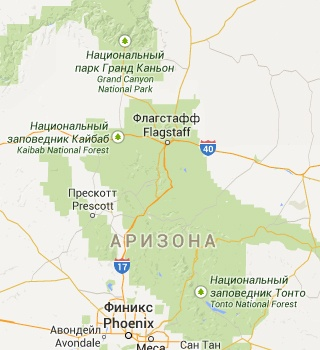
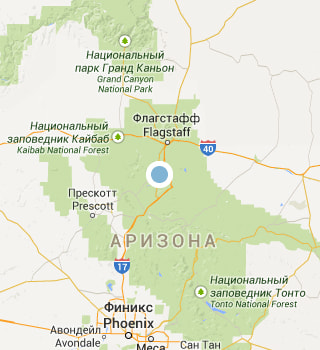
add styles for index.html

diff --git a/src/index.html b/src/index.html
@@ -119,8 +119,7 @@
           <li class="advantages__item advantages__item--extra">
             <div class="advantages__extra-wrapper">
               <h3 class="advantages__title advantages__title--extra">
-                Небольшая<br />
-                площадь
+                Небольшая площадь
               </h3>
               <span class="advantages__index-number">№3</span>
               <p class="advantages__text advantages__text--extra">
@@ -131,8 +130,7 @@
           <li class="advantages__item advantages__item--extra">
             <div class="advantages__extra-wrapper">
               <h3 class="advantages__title advantages__title--extra">
-                Красивая<br />
-                дорога
+                Красивая дорога
               </h3>
               <span class="advantages__index-number">№4</span>
               <p class="advantages__text advantages__text--extra">
@@ -145,8 +143,7 @@
               class="advantages__extra-wrapper advantages__extra-wrapper--last"
             >
               <h3 class="advantages__title advantages__title--extra">
-                Мало<br />
-                туристов
+                Мало туристов
               </h3>
               <span class="advantages__index-number">№5</span>
               <p class="advantages__text advantages__text--extra">
@@ -163,39 +160,61 @@
           Укажите предполагаемые даты поездки, и мы покажем вам лучшие
           предложения гостиниц в седоне
         </p>
-        <a class="button hotel__link">Найти гостиницу</a>
+        <a class="button hotel__link" href="#">Найти гостиницу</a>
       </section>
       <section class="map main__map">
         <h2 class="visually-hidden">Карта с местоположением города Седона</h2>
-        <img
-          class="map__image"
-          width="320"
-          height="350"
-          src="./images/map-mobile.jpg"
-          alt="Карта"
-        />
+        <img class="map__image" src="./images/map-desktop.jpg" alt="Карта" />
+        <iframe
+          class="map__iframe"
+          src="https://www.google.com/maps/embed?pb=!1m18!1m12!1m3!1d249255.05456488425!2d-111.7667545!3d34.8320032!2m3!1f0!2f0!3f0!3m2!1i1024!2i768!4f13.1!3m3!1m2!1s0x872da132f942b00d%3A0x5548c523fa6c8efd!2sSedona%2C%20AZ%2086336%2C%20USA!5e0!3m2!1sen!2sru!4v1573110972892!5m2!1sen!2sru"
+          frameborder="0"
+          allowfullscreen=""
+        >
+        </iframe>
       </section>
     </main>
     <footer class="footer page__footer">
       <b class="footer__hashtag">#Visitsedona</b>
       <ul class="socials footer__socials">
         <li>
-          <a class="socials__link socials__link--twitter">
+          <a class="socials__link socials__link--twitter" href="#">
             <span class="visually-hidden">Twitter</span>
           </a>
         </li>
         <li>
-          <a class="socials__link socials__link--facebook">
+          <a class="socials__link socials__link--facebook" href="#">
             <span class="visually-hidden">Facebook</span>
           </a>
         </li>
         <li>
-          <a class="socials__link socials__link--youtube">
+          <a class="socials__link socials__link--youtube" href="#">
             <span class="visually-hidden">Youtube</span>
           </a>
         </li>
       </ul>
-      <span class="footer__copyright">Разработано</span>
+      <a
+        class="footer__copyright"
+        href="https://htmlacademy.ru/"
+        target="blank"
+      >
+        Разработано
+        <svg
+          class="footer__copyright-image"
+          xmlns="http://www.w3.org/2000/svg"
+          data-name="Layer 1"
+          width="27"
+          height="34"
+          viewBox="0 0 154 195"
+          fill="currentColor"
+        >
+          <path
+            stroke="#231f20"
+            stroke-miterlimit="10"
+            d="M77.99.62l-.8-.08-76.69 8v140.57l76.69 45.63 76.69-45.63V8.54zm65.86 142.82l-66.66 39.63-66.66-39.67V85.79l66.37 39.5.12 7.16-45.54-27.1-.07 6.95 45.72 27.48.11 7.35-45.7-27.19-.06 6.95 45.71 27.48 46.15-27.62v-7h-.06v-22.7l20.57-12.28zm0-66.06l-18.24 10.75-8.42 5-40.2-23.97-.06 7 34.31 20.4-.3.18-.74.44-4.88 2.87-28.33-16.89-.06 6.95 22.36 13.29-5.28 3.53-.13.08-16.89-9.95-.06 6.95 11.08 6.53-11.29 6.78-66-39.26L76.86 38.3h0zm0-7l-67-39.51h0L10.57 70.34V17.62l66.62-7 66.66 7z"
+          />
+        </svg>
+      </a>
     </footer>
 
     <script src="./index.js"></script>

diff --git a/src/components/footer/footer.scss b/src/components/footer/footer.scss
@@ -1,17 +1,73 @@
 .footer {
+  @include mobile-paddings;
+
+  padding-top: 40px;
+  padding-bottom: 25px;
+
+  text-align: center;
   text-transform: uppercase;
+
+  @media (min-width: $tablet) {
+    display: flex;
+    align-items: center;
+    justify-content: space-between;
+    padding: 35px 60px;
+  }
+
+  @media (min-width: $desktop) {
+    padding: 35px 120px;
+  }
 }
 
 .footer__hashtag {
+  display: block;
+  margin-bottom: 35px;
+
   font-weight: $bold;
   font-size: 21px;
   line-height: 26px;
+
+  @media (min-width: $tablet) {
+    margin-bottom: 0;
+  }
 }
 
 .footer__socials {
+  margin-bottom: 40px;
+
+  @media (min-width: $tablet) {
+    margin-bottom: 0;
+  }
 }
 
 .footer__copyright {
+  display: flex;
+  align-items: center;
+  justify-content: center;
+  margin: 0 auto;
+  width: fit-content;
+
   font-size: 14px;
   line-height: 26px;
+  color: #000000;
+
+  @media (min-width: $tablet) {
+    margin: 0;
+  }
+}
+
+.footer__copyright-image {
+  margin-left: 10px;
+
+  color: #000000;
+
+  &:hover,
+  &:focus {
+    color: #81b3d2;
+  }
+
+  &:active {
+    color: #000000;
+    opacity: 0.3;
+  }
 }

diff --git a/src/components/socials/socials.scss b/src/components/socials/socials.scss
@@ -1,3 +1,67 @@
 .socials {
   @include list-reset;
+
+  display: flex;
+  flex-wrap: wrap;
+  justify-content: center;
+}
+
+.socials__link {
+  position: relative;
+
+  display: block;
+  width: 46px;
+  height: 48px;
+  margin-right: 6px;
+  margin-bottom: 6px;
+
+  background-color: $background-blue;
+
+  &:hover,
+  &:focus {
+    background-color: #669ec0;
+  }
+
+  &:active {
+    background-color: #5496bd;
+
+    &::after {
+      opacity: 0.3;
+    }
+  }
+
+  &::after {
+    position: absolute;
+    top: 0;
+    left: 0;
+
+    width: 46px;
+    height: 48px;
+
+    background-repeat: no-repeat;
+    background-position: center;
+
+    content: "";
+  }
+
+  &--twitter {
+    &::after {
+      background-image: url("../images/icon-twitter.svg");
+      background-size: 17px 14px;
+    }
+  }
+
+  &--facebook {
+    &::after {
+      background-image: url("../images/icon-facebook.svg");
+      background-size: 9px 18px;
+    }
+  }
+
+  &--youtube {
+    &::after {
+      background-image: url("../images/icon-youtube.svg");
+      background-size: 20px 14px;
+    }
+  }
 }

diff --git a/src/components/hotel/hotel.scss b/src/components/hotel/hotel.scss
@@ -1,20 +1,45 @@
 .hotel {
+  @include mobile-paddings;
+
+  text-align: center;
   text-transform: uppercase;
+
+  @media (min-width: $tablet) {
+    @include tablet-paddings;
+
+    width: 460px;
+    margin: 0 auto;
+  }
 }
 
 .hotel__slogan {
+  display: block;
+  margin-bottom: 20px;
+
   font-weight: $bold;
   font-size: 21px;
   line-height: 26px;
+
+  @media (min-width: $tablet) {
+    margin-bottom: 30px;
+
+    font-size: 30px;
+  }
 }
 
 .hotel__text {
   margin: 0;
+  margin-bottom: 35px;
 
   font-size: 14px;
   line-height: 24px;
   color: $text-almost-black;
+
+  @media (min-width: $tablet) {
+    margin-bottom: 45px;
+  }
 }
 
 .hotel__link {
+  width: 100%;
 }

diff --git a/gulpfile.js b/gulpfile.js
@@ -52,7 +52,7 @@ gulp.task("server", function() {
     notify: false
   });
 
-  gulp.watch("src/**/*.scss", gulp.series("css", "refresh"));
+  gulp.watch("src/**/*.scss", gulp.series("css"));
   gulp.watch("src/*.html", gulp.series("html", "refresh"));
   gulp.watch("src/*.js", gulp.series("js", "refresh"));
   gulp.watch(

diff --git a/src/components/main/main.scss b/src/components/main/main.scss
@@ -3,9 +3,22 @@
 
 .main__advantages {
   margin-bottom: 25px;
+
+  @media (min-width: $tablet) {
+    margin-bottom: 50px;
+  }
 }
 
 .main__hotel {
+  margin-bottom: 50px;
+
+  @media (min-width: $tablet) {
+    margin-bottom: 60px;
+  }
+
+  @media (min-width: $desktop) {
+    margin-bottom: 65px;
+  }
 }
 
 .main__map {

diff --git a/src/components/map/map.scss b/src/components/map/map.scss
@@ -1,5 +1,25 @@
 .map {
+  position: relative;
+
+  text-align: center;
+
+  background-color: #f2f0ec;
 }
 
 .map__image {
+  display: block;
+  height: 350px;
+
+  object-fit: cover;
+}
+
+.map__iframe {
+  position: absolute;
+  top: 0;
+  left: 0;
+
+  width: 100%;
+  height: 350px;
+
+  border: none;
 }

diff --git a/src/components/base/mixins.scss b/src/components/base/mixins.scss
@@ -21,3 +21,7 @@
 @mixin tablet-paddings {
   padding: 0 45px;
 }
+
+@mixin desktop-paddings {
+  padding: 0 120px;
+}
